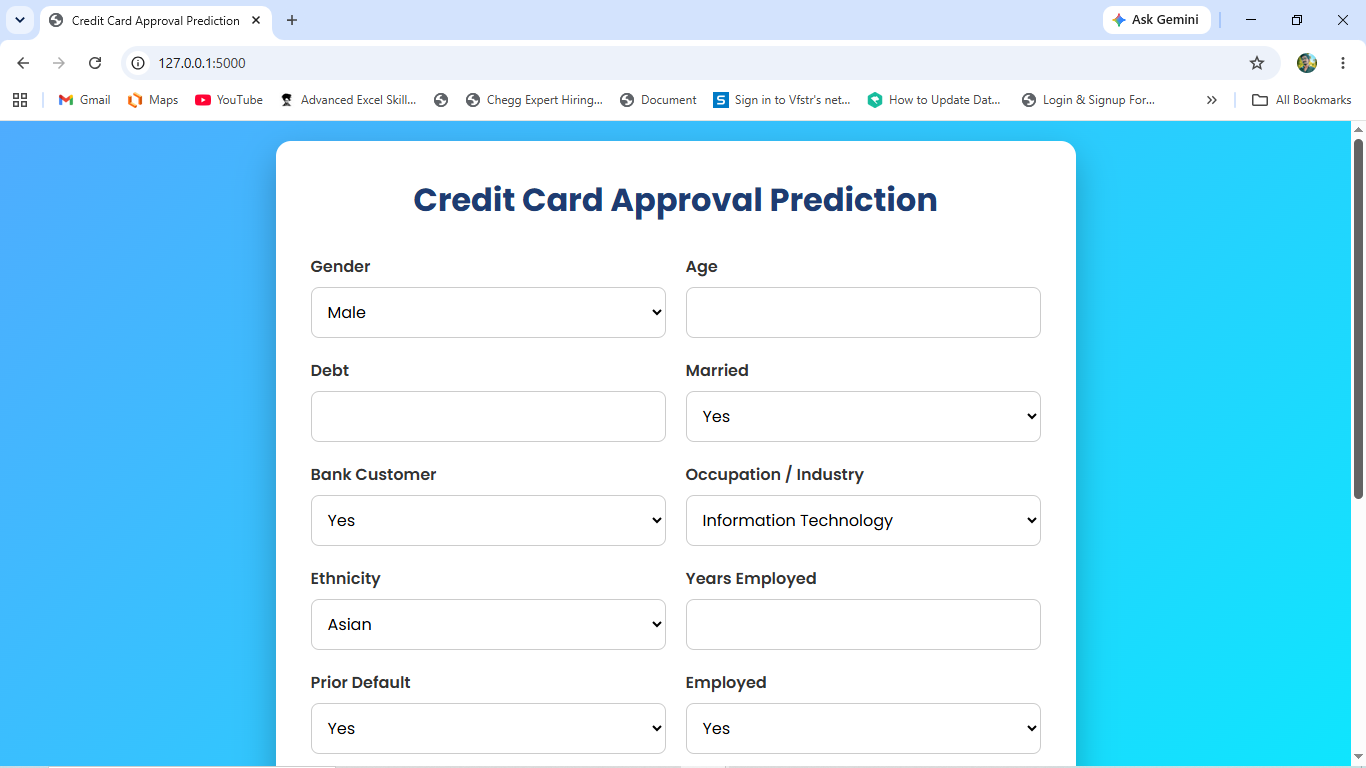
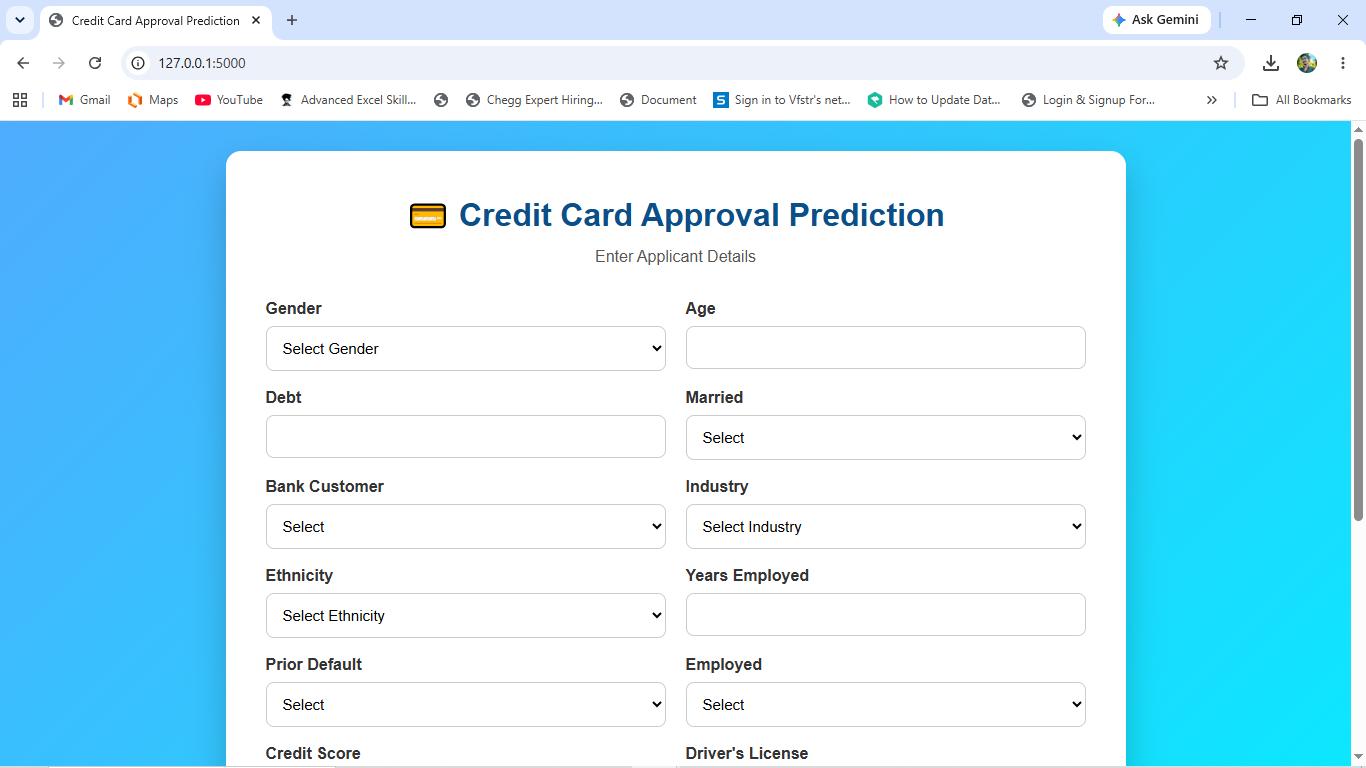
Updated README and project screenshots

diff --git a/README.md b/README.md
@@ -1,2 +1,220 @@
-# CreditCardApprovalPrediction
-Machine Learning-based Credit Card Approval Prediction system using Python, Flask, Scikit-learn, and Random Forest. Predicts credit card approval based on applicant financial and personal details through a responsive web application.
+# 💳 Credit Card Approval Prediction System
+
+A Machine Learning-based web application that predicts whether a credit card application will be **Approved** or **Rejected** based on an applicant's financial and personal details.
+
+The project uses **Python**, **Flask**, **Scikit-learn**, **Random Forest**, and **XGBoost** to build an intelligent prediction system with a responsive web interface.
+
+---
+
+## 📌 Features
+
+- User-friendly Flask web application
+- Predict Credit Card Approval instantly
+- Displays Approval & Rejection Probability
+- Machine Learning based prediction
+- Multiple ML algorithms comparison
+- Random Forest selected as the best model
+- Clean responsive UI
+- Error handling
+- Trained model (.pkl) included
+
+---
+
+## 🛠 Technologies Used
+
+- Python 3.x
+- Flask
+- Pandas
+- NumPy
+- Scikit-learn
+- XGBoost
+- Joblib
+- HTML5
+- CSS3
+
+---
+
+## 📂 Project Structure
+
+```
+CreditCardApprovalPrediction/
+│
+├── dataset/
+│   ├── crx.csv
+│   └── clean_dataset.csv
+│
+├── models/
+│   ├── credit_card_model.pkl
+│   └── encoders.pkl
+│
+├── screenshots/
+│   ├── form.png
+│   ├── approve.png
+│   └── reject.png
+│
+├── static/
+│   └── style.css
+│
+├── templates/
+│   ├── index.html
+│   └── result.html
+│
+├── app.py
+├── train_model.py
+├── requirements.txt
+├── README.md
+└── LICENSE
+```
+
+---
+
+## 📊 Machine Learning Models Compared
+
+| Model | Accuracy |
+|--------|----------|
+| Logistic Regression | 86.23% |
+| Decision Tree | 86.23% |
+| Random Forest | **88.41%** |
+| XGBoost | Tested |
+
+Random Forest achieved the highest accuracy and was selected for deployment.
+
+---
+
+## 📥 Dataset
+
+Dataset used:
+
+**Credit Card Approval Dataset**
+
+Features include:
+
+- Gender
+- Age
+- Debt
+- Married
+- Bank Customer
+- Industry
+- Ethnicity
+- Years Employed
+- Prior Default
+- Employed
+- Credit Score
+- Driver's License
+- Citizen
+- Zip Code
+- Income
+
+Target:
+
+- Approved (1)
+- Rejected (0)
+
+---
+
+## 🚀 Installation
+
+Clone the repository
+
+```bash
+git clone https://github.com/pagolusrikanth/CreditCardApprovalPrediction.git
+```
+
+Move into the project
+
+```bash
+cd CreditCardApprovalPrediction
+```
+
+Install dependencies
+
+```bash
+pip install -r requirements.txt
+```
+
+Run the application
+
+```bash
+python app.py
+```
+
+Open your browser
+
+```
+http://127.0.0.1:5000
+```
+
+---
+
+## 🧠 Model Training
+
+To retrain the model using your dataset
+
+```bash
+python train_model.py
+```
+
+This generates
+
+```
+models/
+    credit_card_model.pkl
+    encoders.pkl
+```
+
+---
+
+## 📷 Screenshots
+
+### Home Page
+
+Add:
+
+```
+screenshots/form.png
+```
+
+### Approved Prediction
+
+Add:
+
+```
+screenshots/approve.png
+```
+
+### Rejected Prediction
+
+Add:
+
+```
+screenshots/reject.png
+```
+
+---
+
+## 📈 Future Enhancements
+
+- Deep Learning Model
+- LightGBM
+- Explainable AI (SHAP)
+- User Authentication
+- Cloud Deployment
+- REST API
+- Database Integration
+
+---
+
+## 👨💻 Author
+
+**Srikanth Pagolu**
+
+M.Tech (Computer Science)
+
+GitHub:
+https://github.com/pagolusrikanth
+
+---
+
+## 📄 License
+
+This project is licensed under the MIT License.